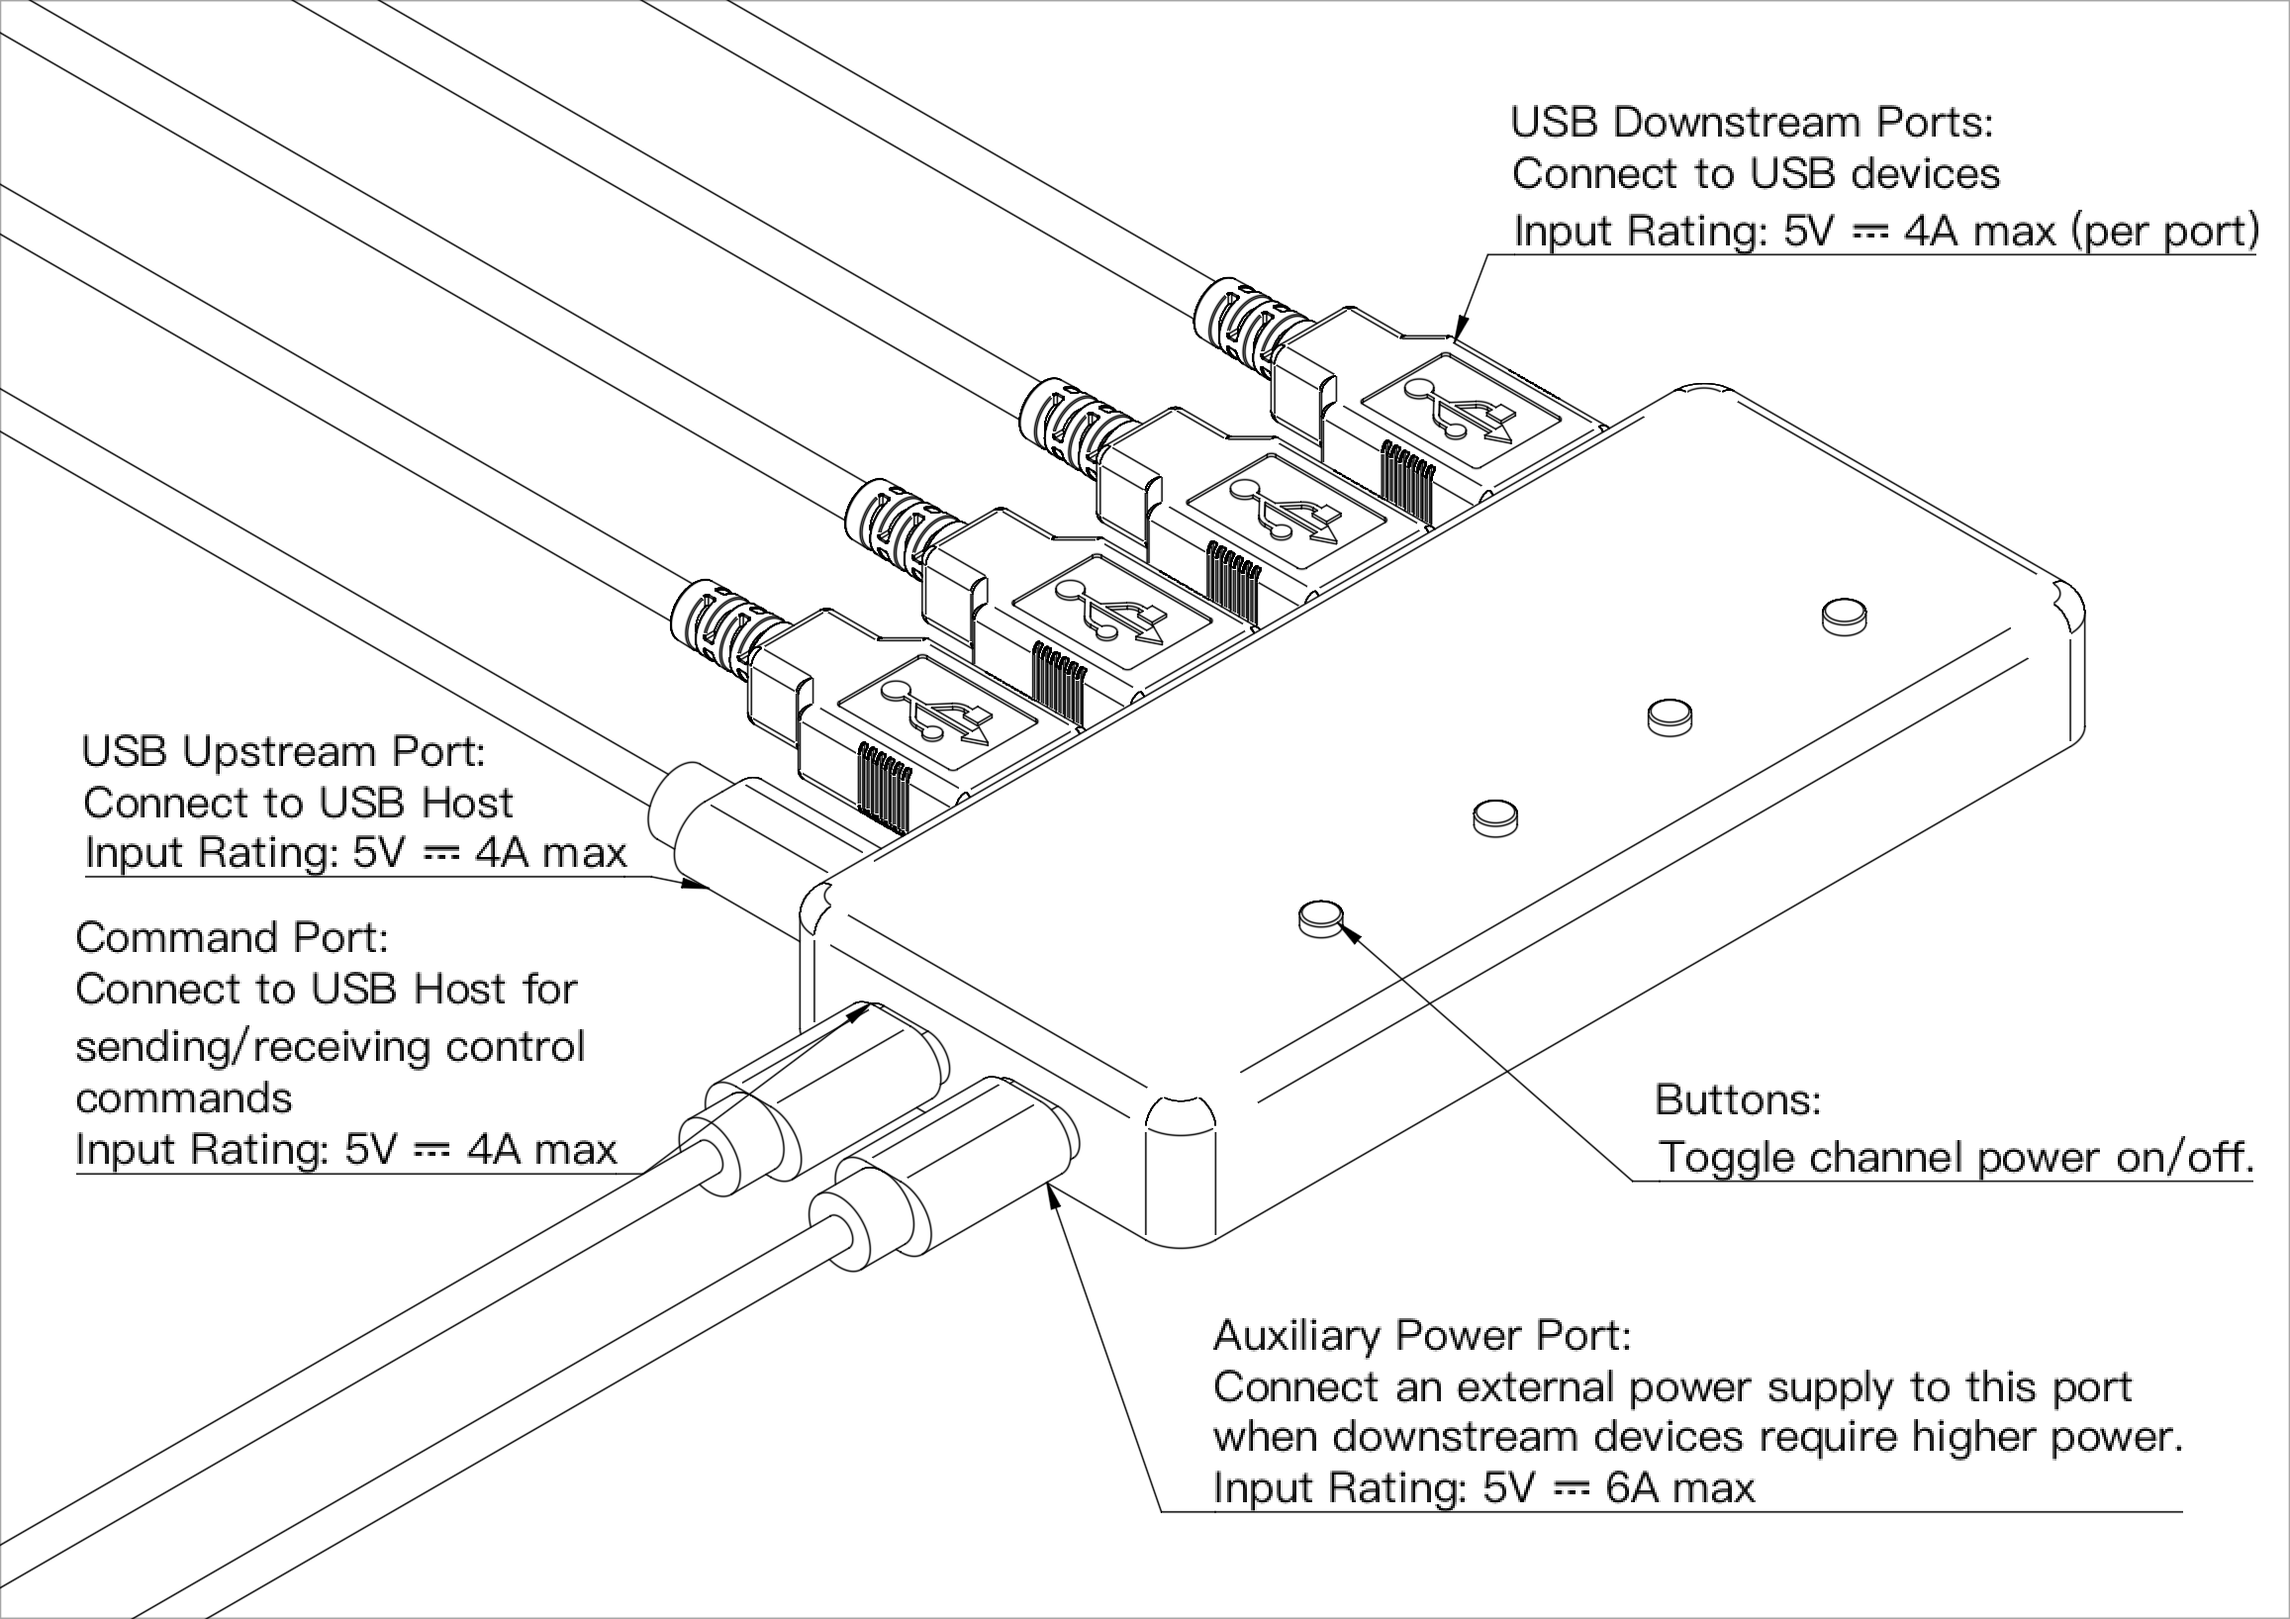
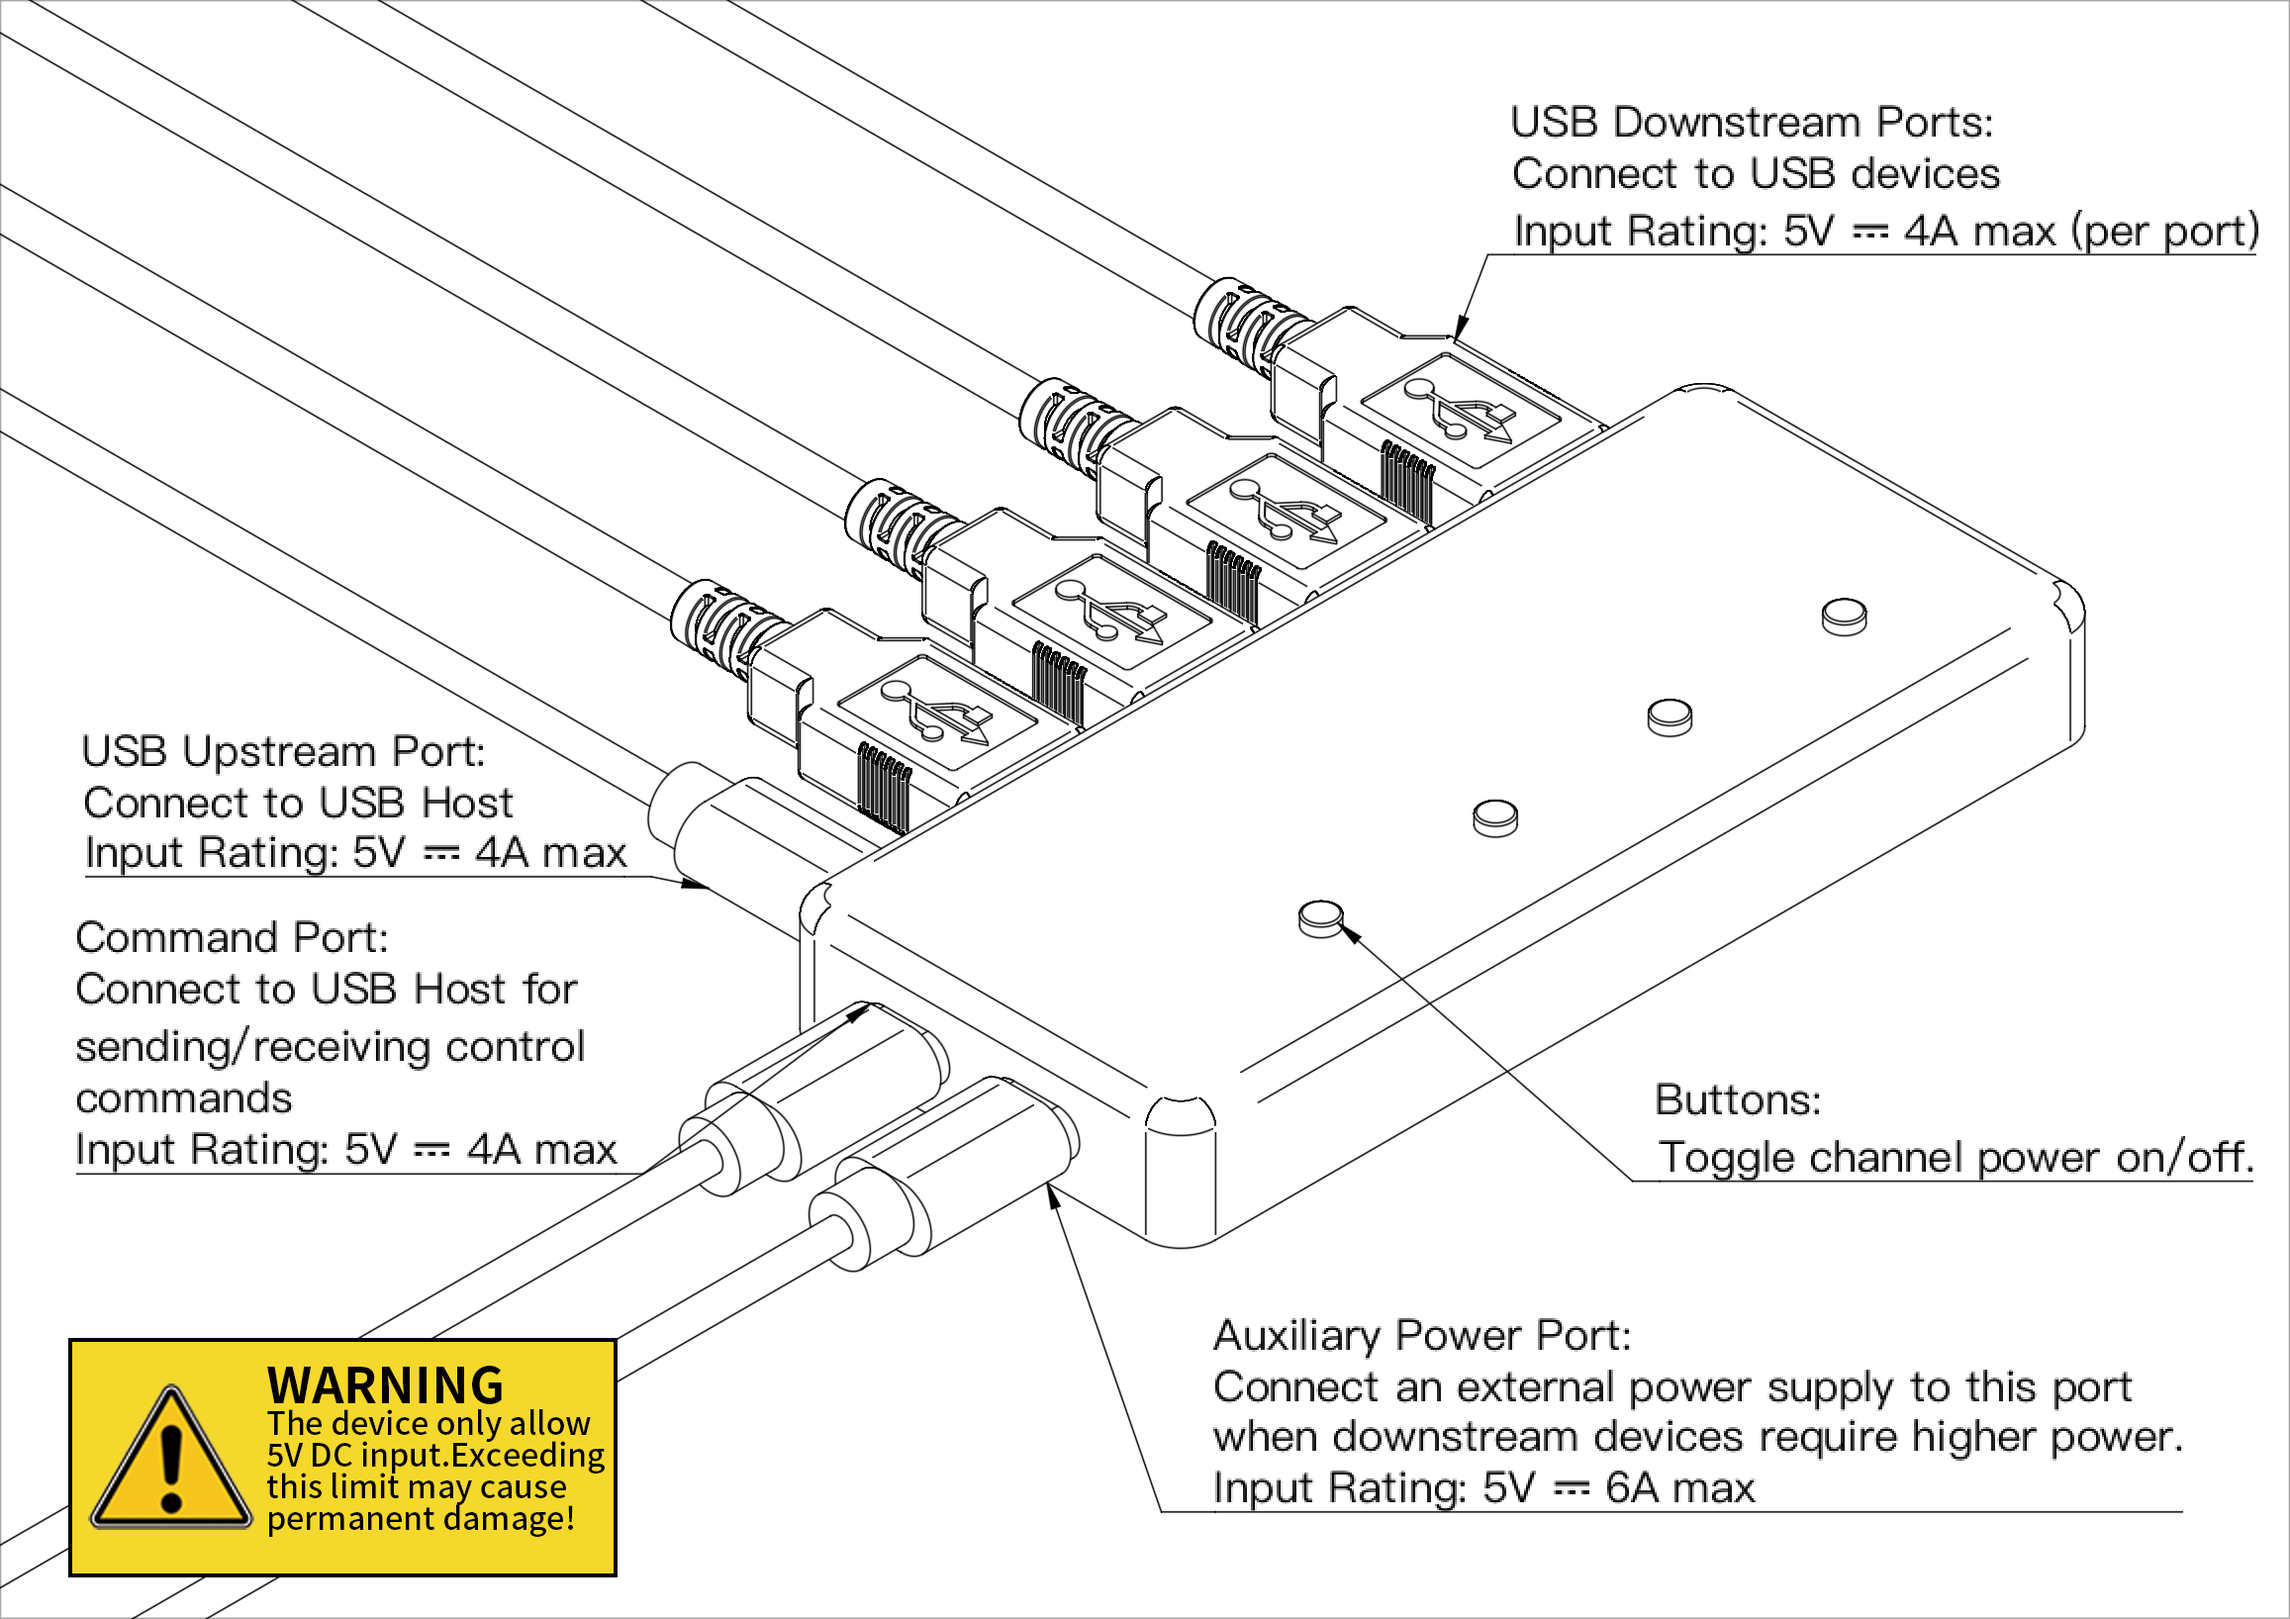
update document

Changed region(s): [[0.0311, 0.8105, 0.28, 0.9976]]

diff --git a/document/智能USB集线器_使用指南.md b/document/智能USB集线器_使用指南.md
@@ -90,9 +90,7 @@
 
 ## 连接说明
 
-![image-20250501214323034](assets/image-20250501214323034.png)
-
-
+![connection_guide_cn](assets/connection_guide_cn.png)
 
 ## 设备接口
 
